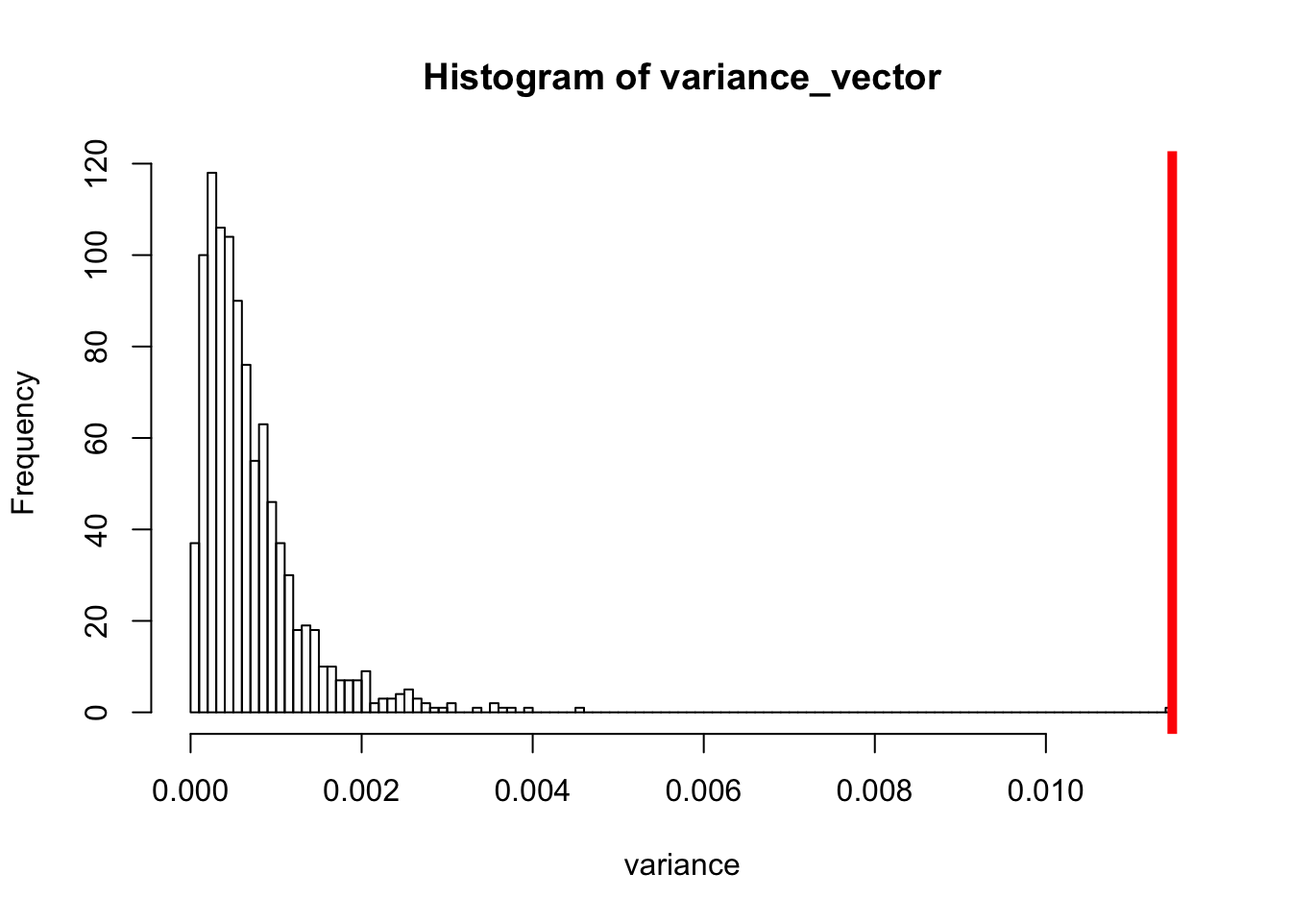
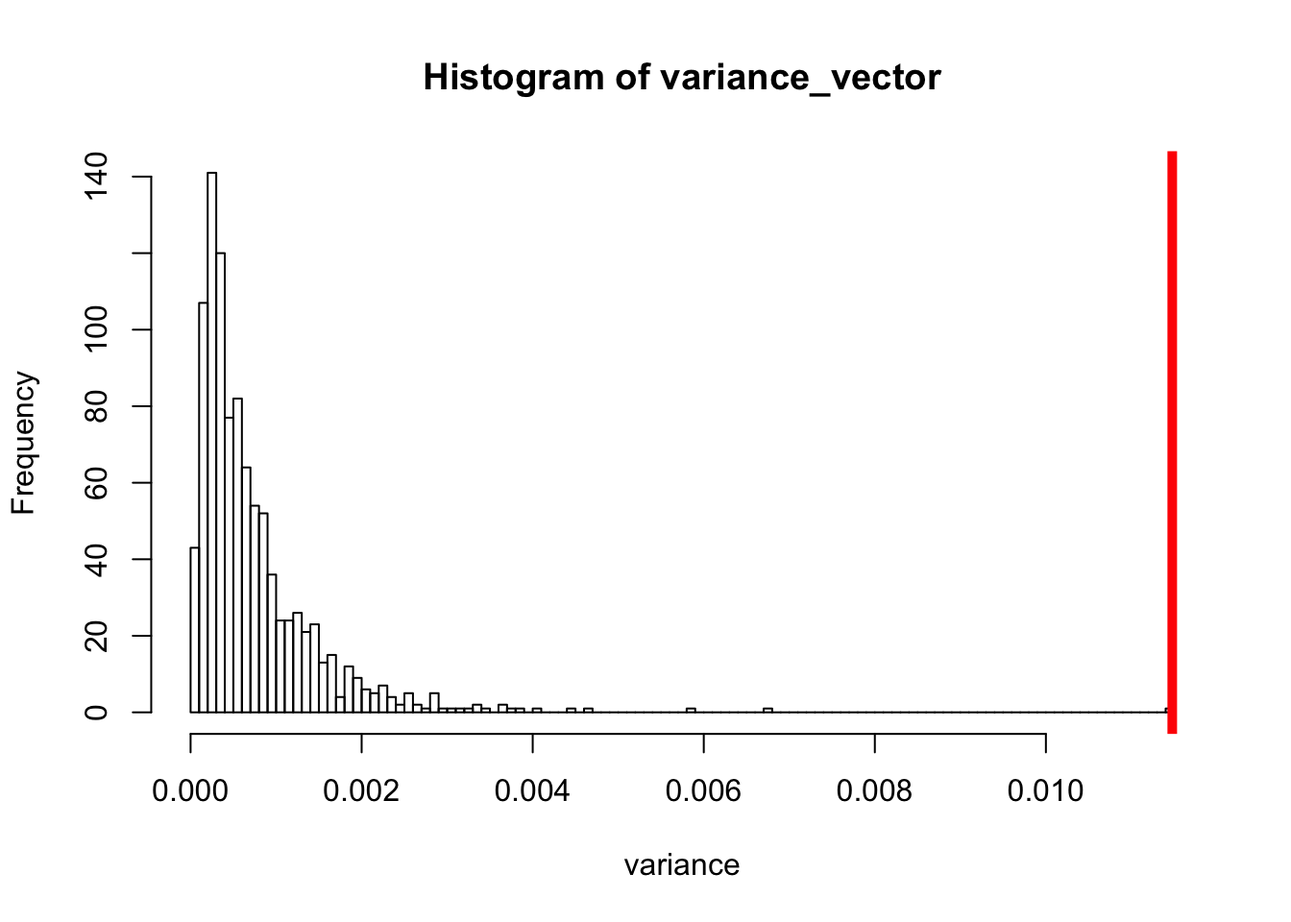
update docs

diff --git a/docs/articles/Intermediate.html b/docs/articles/Intermediate.html
@@ -108,6 +108,13 @@
     
 <p>In the <strong>Introduction</strong> vignette users learned how to perform the most fundamental computations and visualizations for phylotranscriptomics analyses using the <code>myTAI</code> package.</p>
 <p>This <strong>Intermediate</strong> vignette introduces more detailed analyses and more specialized techniques to investigate the observed phylotranscriptomics patterns (<code>TAI</code>, <code>TDI</code>, <code>RE</code>, etc.) and introduces the statistical framework to quantify the significance of observed phenomena.</p>
+<ul>
+<li><a href="#flat-line-test">1. Details: Flat Line Test</a></li>
+<li><a href="#reductive-hourglass-test">2. Details: Reductive Hourglass Test</a></li>
+<li><a href="#reductive-early-conservation-test">3. Details: Reductive Early Conservation Test</a></li>
+<li><a href="#reverse-hourglass-test">4. Details: Reverse Hourglass Test</a></li>
+<li><a href="#data-transformation">5. Data Transformation for log(TAI) and sqrt(TAI) patterns</a></li>
+</ul>
 <div id="investigating-the-statistical-significance-of-phylotranscriptomic-patterns" class="section level2">
 <h2 class="hasAnchor">
 <a href="#investigating-the-statistical-significance-of-phylotranscriptomic-patterns" class="anchor"></a>Investigating the Statistical Significance of Phylotranscriptomic Patterns</h2>
@@ -147,7 +154,7 @@
 <pre><code>#&gt; Plot signature: ' TAI ' and test statistic: ' FlatLineTest '.</code></pre>
 <p><img src="Intermediate_files/figure-html/unnamed-chunk-4-1.png" width="672"></p>
 <pre><code>#&gt;   Zygote Quadrant Globular    Heart  Torpedo     Bent   Mature 
-#&gt; 3.442376 3.450581 3.463984 3.466755 3.462376 3.474877 3.411153</code></pre>
+#&gt; 3.477610 3.477359 3.475310 3.485513 3.515593 3.504672 3.433017</code></pre>
 <pre><code>  Zygote Quadrant Globular    Heart  Torpedo     Bent   Mature 
 3.543700 3.573999 3.554707 3.543376 3.582905 3.562813 3.523409 </code></pre>
 <p>Visualization:</p>
@@ -158,17 +165,17 @@
 <p>Now we investigate the variance of the two observed patterns.</p>
 <pre><code>#&gt; [1] 0.01147725</code></pre>
 <pre><code>[1] 0.01147725</code></pre>
-<pre><code>#&gt; [1] 0.0004576913</code></pre>
+<pre><code>#&gt; [1] 0.0006893725</code></pre>
 <pre><code>[1] 0.0004102549</code></pre>
 <p>We observe that the variance of the randomly assigned TAI profile is much smaller than the variance of the correctly assigned TAI profile. Here we use the variance to quantify the <em>flatness</em> of a given TAI profile. In theory the variance of a perfect flat line would be zero. So any TAI profile that is close to zero would resemble a flat line. But how exactly are the variances of randomly assigned TAI profiles distributed? For this purpose the <code><a href="../reference/bootMatrix.html">bootMatrix()</a></code> function was implemented.</p>
 <p>The <code><a href="../reference/bootMatrix.html">bootMatrix()</a></code> takes an PhyloExpressionSet or DivergenceExpressionSet as input and computes N <code>TAI</code> or <code>TDI</code> profiles based on randomly assigned Phylostrata or Divergence-Strata.</p>
 <pre><code>#&gt;     Zygote Quadrant Globular    Heart  Torpedo     Bent   Mature
-#&gt; 1 3.556373 3.555940 3.564371 3.552135 3.540932 3.597329 3.559200
-#&gt; 2 3.578958 3.562647 3.543260 3.553642 3.552000 3.558867 3.629249
-#&gt; 3 3.575064 3.554565 3.554083 3.558154 3.552331 3.593836 3.511084
-#&gt; 4 3.487841 3.478605 3.502732 3.502590 3.495563 3.501634 3.566647
-#&gt; 5 3.511729 3.522055 3.513109 3.517169 3.507797 3.468659 3.451292
-#&gt; 6 3.519712 3.520031 3.499051 3.493000 3.491151 3.466636 3.570516</code></pre>
+#&gt; 1 3.562005 3.584663 3.561341 3.552105 3.544820 3.568694 3.488701
+#&gt; 2 3.468806 3.491609 3.526658 3.527258 3.509076 3.502288 3.509925
+#&gt; 3 3.403370 3.439106 3.433226 3.427242 3.435436 3.414637 3.434494
+#&gt; 4 3.477342 3.482300 3.483284 3.496459 3.475179 3.451550 3.527596
+#&gt; 5 3.574572 3.582978 3.569541 3.565765 3.530029 3.539912 3.471563
+#&gt; 6 3.558841 3.534821 3.514870 3.516069 3.503444 3.505163 3.589924</code></pre>
 <pre><code>    Zygote Quadrant Globular    Heart  Torpedo     Bent   Mature
 1 3.578000 3.577732 3.552230 3.556756 3.555627 3.553580 3.510978
 2 3.590339 3.564544 3.589012 3.598754 3.583721 3.597553 3.633530
@@ -206,12 +213,12 @@ fitdistrplus<span class="op">::</span><span class="kw"><a href="https://www.rdoc
 <p><img src="Intermediate_files/figure-html/unnamed-chunk-12-1.png" width="672"></p>
 <pre><code>#&gt; summary statistics
 #&gt; ------
-#&gt; min:  2.205066e-05   max:  0.004521709 
-#&gt; median:  0.0005324309 
-#&gt; mean:  0.000697152 
-#&gt; estimated sd:  0.0005888013 
-#&gt; estimated skewness:  2.116237 
-#&gt; estimated kurtosis:  9.442811</code></pre>
+#&gt; min:  2.481388e-05   max:  0.006715145 
+#&gt; median:  0.0005125888 
+#&gt; mean:  0.0007266039 
+#&gt; estimated sd:  0.0006991608 
+#&gt; estimated skewness:  2.679342 
+#&gt; estimated kurtosis:  14.88535</code></pre>
 <p>Based on the observation that a gamma distribution is a suitable fit for <code>variance_vector</code>, we can now estimate the parameters of the gamma distribution that fits the data.</p>
 <div class="sourceCode"><pre class="sourceCode r"><code class="sourceCode r"><span class="co"># estimate the parameters: shape and rate using 'moment matching estimation'</span>
 gamma_MME &lt;-<span class="st"> </span>fitdistrplus<span class="op">::</span><span class="kw"><a href="https://www.rdocumentation.org/packages/fitdistrplus/topics/fitdist">fitdist</a></span>(variance_vector,<span class="dt">distr =</span> <span class="st">"gamma"</span>, <span class="dt">method =</span> <span class="st">"mme"</span>)
@@ -241,7 +248,7 @@ histogram &lt;-<span class="st"> </span><span class="kw"><a href="https://www.rd
 <p>Using the gamma distribution with estimated parameters the corresponding p-value of <code>var_real</code> can be computed.</p>
 <div class="sourceCode"><pre class="sourceCode r"><code class="sourceCode r"><span class="co"># p-value of var_real</span>
 <span class="kw"><a href="https://www.rdocumentation.org/packages/stats/topics/GammaDist">pgamma</a></span>(var_real, <span class="dt">shape =</span> shape,<span class="dt">rate =</span> rate, <span class="dt">lower.tail =</span> <span class="ot">FALSE</span>)</code></pre></div>
-<pre><code>#&gt; [1] 3.766777e-10</code></pre>
+<pre><code>#&gt; [1] 5.052281e-08</code></pre>
 <p>Hence, the variance of the correct TAI profile significantly deviates from random TAI profiles and this allows us to assume that the underlying TAI profile captures a real evolutionary signal.</p>
 </div>
 <div id="using-the-flatlinetest-function" class="section level3">
@@ -394,6 +401,78 @@ histogram &lt;-<span class="st"> </span><span class="kw"><a href="https://www.rd
 <p>This example output nicely illustrates that although the <a href="http://amstat.tandfonline.com/doi/abs/10.1080/00031305.1986.10475419#.VDjzFCl_vek">Lilliefors (Kolmogorov-Smirnov) test</a> for normality is violated, the <a href="https://openlibrary.org/works/OL1978341W/Probabilistic_techniques_in_exposure_assessment">Cullen and Frey graph</a> shows that there is no better approximation than a normal distribution (which is also supported visually by investigating the fitted frequency distribution). The corresponding p-value returned by the <code><a href="../reference/EarlyConservationTest.html">EarlyConservationTest()</a></code> is highly non-significant and illustrates that the observed phylotranscriptomic pattern of <code>PhyloExpressionSetExample</code> does not follow the Early Conservation Model assumption.</p>
 <p>This example shall illustrate that finding the right test statistic is a multi-step process of investigating different properties of the underlying permutation test. Although single aspects might fit or fit not corresponding criteria, the overall impression (sum of all individual analyses) must be considered to obtain a valid p-value.</p>
 </div>
+<div id="reverse-hourglass-test" class="section level3">
+<h3 class="hasAnchor">
+<a href="#reverse-hourglass-test" class="anchor"></a>Reverse Hourglass Test</h3>
+<p>The <strong>Reverse Hourglass Test</strong> has been developed to statistically evaluate the existence of a <code>reverse hourglass pattern</code> based on TAI or TDI computations. The corresponding p-value quantifies the probability that a given TAI or TDI pattern (or any phylotranscriptomics pattern) does not follow an reverse hourglass like shape. A p-value &lt; 0.05 indicates that the corresponding phylotranscriptomics pattern does indeed follow a reverse hourglass (low-high-low) shape.</p>
+<p>To build the test statistic again we start with a standard PhyloExpressionSet.</p>
+<pre><code>#&gt;   Phylostratum      GeneID   Zygote Quadrant Globular     Heart  Torpedo      Bent    Mature
+#&gt; 1            1 at1g01040.2 2173.635 1911.200 1152.555 1291.4224 1000.253  962.9772 1696.4274
+#&gt; 2            1 at1g01050.1 1501.014 1817.309 1665.309 1564.7612 1496.321 1114.6435 1071.6555
+#&gt; 3            1 at1g01070.1 1212.793 1233.002  939.200  929.6195  864.218  877.2060  894.8189</code></pre>
+<pre><code>  Phylostratum      GeneID   Zygote Quadrant Globular     Heart  Torpedo      Bent    Mature
+1            1 at1g01040.2 2173.635 1911.200 1152.555 1291.4224 1000.253  962.9772 1696.4274
+2            1 at1g01050.1 1501.014 1817.309 1665.309 1564.7612 1496.321 1114.6435 1071.6555
+3            1 at1g01070.1 1212.793 1233.002  939.200  929.6195  864.218  877.2060  894.8189
+</code></pre>
+<p>And again compute the <code><a href="../reference/TAI.html">TAI()</a></code> profile of the <code>PhyloExpressionSetExample</code>.</p>
+<div class="sourceCode"><pre class="sourceCode r"><code class="sourceCode r"><span class="co"># TAI profile of correctly assigned Phylostrata</span>
+<span class="kw"><a href="../reference/TAI.html">TAI</a></span>(PhyloExpressionSetExample) </code></pre></div>
+<pre><code>  Zygote Quadrant Globular    Heart  Torpedo     Bent   Mature 
+3.229942 3.225614 3.107135 3.116693 3.073993 3.176511 3.390334 
+</code></pre>
+<p>Visualization:</p>
+<div class="sourceCode"><pre class="sourceCode r"><code class="sourceCode r"><span class="co"># visualize the TAI profile of correctly assigned Phylostrata</span>
+<span class="kw"><a href="../reference/PlotSignature.html">PlotSignature</a></span>( <span class="dt">ExpressionSet =</span> PhyloExpressionSetExample, 
+               <span class="dt">p.value       =</span> <span class="ot">FALSE</span> ) </code></pre></div>
+<p>The Reverse Hourglass Test is a permutation test based on the following test statistic.</p>
+<ol style="list-style-type: decimal">
+<li><p>A set of developmental stages is partitioned into three modules - <code>early</code>, <code>mid</code>, and <code>late</code> - based on prior biological knowledge (see Drost et al., 2015 for details).</p></li>
+<li><p>The mean TAI or TDI value for each of the three modules <span class="math inline">\(T_{early}\)</span>, <span class="math inline">\(T_{mid}\)</span>, and <span class="math inline">\(T_{late}\)</span> are computed.</p></li>
+<li><p>The two differences D1 = <span class="math inline">\(T_{mid}\)</span> - <span class="math inline">\(T_{early}\)</span> and D2 = <span class="math inline">\(T_{mid}\)</span> - <span class="math inline">\(T_{late}\)</span> are calculated.</p></li>
+<li><p>The minimum <span class="math inline">\(D_{min}\)</span> of D1 and D2 is computed as final test statistic of the <strong>Reverse Hourglass Test</strong>.</p></li>
+</ol>
+<p>In order to determine the statistical significance of an observed minimum difference <span class="math inline">\(D_{min}\)</span> the following permutation test was performed. Based on the <code><a href="../reference/bootMatrix.html">bootMatrix()</a></code> <span class="math inline">\(D_{min}\)</span> is calculated from each of the permuted TAI or TDI profiles, approximated by a Gaussian distribution with method of moments estimated parameters returned by <code><a href="https://www.rdocumentation.org/packages/fitdistrplus/topics/fitdist">fitdistrplus::fitdist()</a></code>, and the corresponding p-value is computed by <code>pnorm</code> given the estimated parameters of the Gaussian distribution. The goodness of fit for the random vector <span class="math inline">\(D_{min}\)</span> is statistically quantified by a <a href="http://amstat.tandfonline.com/doi/abs/10.1080/00031305.1986.10475419#.VDjzFCl_vek">Lilliefors (Kolmogorov-Smirnov) test</a> for normality.</p>
+<p>To perform the <strong>Reverse Hourglass Test</strong> you can use the <code><a href="../reference/ReverseHourglassTest.html">ReverseHourglassTest()</a></code> function. Using this function you need to divide the given phylotranscriptomic pattern into three developmental modules:</p>
+<ul>
+<li>early module</li>
+<li>mid module</li>
+<li>late module</li>
+</ul>
+<p>This can be done using the <code>modules</code> argument: <code>module = list(early = 1:2, mid = 3:5, late = 6:7)</code>. In this example (<code>PhyloExpressionSetExample</code>) we divide the corresponding developmental process into the three modules:</p>
+<ul>
+<li>early module: Stages 1 - 2 = Zygote and Quadrant</li>
+<li>mid module: Stages 3 - 5 = Globular, Heart, and Torpedo</li>
+<li>late module: Stages 6 - 7 = Bent and Mature</li>
+</ul>
+<div class="sourceCode"><pre class="sourceCode r"><code class="sourceCode r"><span class="co"># Perform the Reverse Hourglass Test</span>
+<span class="kw"><a href="../reference/ReverseHourglassTest.html">ReverseHourglassTest</a></span>( <span class="dt">ExpressionSet =</span> PhyloExpressionSetExample,
+                        <span class="dt">modules       =</span> <span class="kw"><a href="https://www.rdocumentation.org/packages/base/topics/list">list</a></span>(<span class="dt">early =</span> <span class="dv">1</span><span class="op">:</span><span class="dv">2</span>, <span class="dt">mid =</span> <span class="dv">3</span><span class="op">:</span><span class="dv">5</span>, <span class="dt">late =</span> <span class="dv">6</span><span class="op">:</span><span class="dv">7</span>),
+                        <span class="dt">lillie.test   =</span> <span class="ot">TRUE</span> ) </code></pre></div>
+<pre><code>$p.value
+[1] 1
+
+$std.dev
+[1] 0.05598325 0.05469016 0.05386737 0.05248817 0.05161525 0.05411684 0.05605765
+
+$lillie.test
+[1] TRUE</code></pre>
+<p>The corresponding output shows the p-value returned by the <strong>Reductive Hourglass Test</strong>, the standard deviation of randomly permuted TAI profiles returned by <code><a href="../reference/bootMatrix.html">bootMatrix()</a></code> (<code><a href="https://www.rdocumentation.org/packages/base/topics/apply">apply(bootMatrix(PhyloExpressionSetExample) , 2 , sd)</a></code>) and in case the argument <code>lillie.test = TRUE</code>, a logical value representing the goodness of fit statistic returned by the <a href="http://amstat.tandfonline.com/doi/abs/10.1080/00031305.1986.10475419#.VDjzFCl_vek">Lilliefors (Kolmogorov-Smirnov) test</a> for normality. In case <code>lillie.test</code> is <code>TRUE</code> the corresponding <a href="http://amstat.tandfonline.com/doi/abs/10.1080/00031305.1986.10475419#.VDjzFCl_vek">Lilliefors (Kolmogorov-Smirnov)</a> test passed the goodness of fit criterion. In case <code>lillie.test</code> is <code>FALSE</code> the corresponding goodness of fit by a normal distribution is not statistically significant.</p>
+<p>Analogous to the <code>plotHistogram</code> argument that is present in the <code><a href="../reference/FlatLineTest.html">FlatLineTest()</a></code> function, the <code><a href="../reference/ReductiveHourglassTest.html">ReductiveHourglassTest()</a></code> function also takes an argument <code>plotHistogram</code>. When <code>plotHistogram = TRUE</code>, the <code><a href="../reference/ReductiveHourglassTest.html">ReductiveHourglassTest()</a></code> function returns a multi-plot showing:</p>
+<ul>
+<li><p>A Cullen and Frey skewness-kurtosis plot. This plot illustrates which distributions seem plausible to fit the resulting permutation vector <span class="math inline">\(D_{min}\)</span>. Here a normal distribution seems most plausible.</p></li>
+<li><p>A histogram of <span class="math inline">\(D_{min}\)</span> combined with the density plot is visualized. <span class="math inline">\(D_{min}\)</span> is then fitted by a normal distribution. The corresponding parameters are estimated by moment matching estimation.</p></li>
+<li><p>A plot showing the p-values for N independent runs to verify that a specific p-value is biased by a specific permutation order.</p></li>
+<li><p>A bar plot showing the number of cases in which the underlying goodness of fit (returned by <a href="http://amstat.tandfonline.com/doi/abs/10.1080/00031305.1986.10475419#.VDjzFCl_vek">Lilliefors (Kolmogorov-Smirnov) test</a> for normality) has shown to be significant (<code>TRUE</code>) or not significant (<code>FALSE</code>). This allows to quantify the permutation bias and their implications on the goodness of fit.</p></li>
+</ul>
+<div class="sourceCode"><pre class="sourceCode r"><code class="sourceCode r"><span class="co"># perform the Reverse Hourglass Test and plot the test statistic</span>
+<span class="kw"><a href="../reference/ReverseHourglassTest.html">ReverseHourglassTest</a></span>( <span class="dt">ExpressionSet =</span> PhyloExpressionSetExample,
+                        <span class="dt">modules       =</span> <span class="kw"><a href="https://www.rdocumentation.org/packages/base/topics/list">list</a></span>(<span class="dt">early =</span> <span class="dv">1</span><span class="op">:</span><span class="dv">2</span>, <span class="dt">mid =</span> <span class="dv">3</span><span class="op">:</span><span class="dv">5</span>, <span class="dt">late =</span> <span class="dv">6</span><span class="op">:</span><span class="dv">7</span>),
+                        <span class="dt">plotHistogram =</span> <span class="ot">TRUE</span>, 
+                        <span class="dt">lillie.test   =</span> <span class="ot">TRUE</span> ) </code></pre></div>
+<p>The corresponding output shows the <code>summary statistics</code> of the fitted normal distribution as well as the p-value, standard deviation, and <a href="http://amstat.tandfonline.com/doi/abs/10.1080/00031305.1986.10475419#.VDjzFCl_vek">Lilliefors (Kolmogorov-Smirnov) test</a> result.</p>
+<p>This example output nicely illustrates that although the Lilliefors (Kolmogorov-Smirnov) test for normality is violated for some permutations, the Cullen and Frey graph shows that there is no better approximation than a normal distribution (which is also supported visually by investigating the fitted frequency distribution). The corresponding p-value returned by <code><a href="../reference/ReverseHourglassTest.html">ReverseHourglassTest()</a></code> is significant and illustrates that the observed phylotranscriptomic pattern of PhyloExpressionSetExample does follow the Hourglass Model assumption.</p>
+</div>
 </div>
 <div id="data-transformation" class="section level2">
 <h2 class="hasAnchor">
@@ -470,7 +549,7 @@ PES.absolute &lt;-<span class="st"> </span><span class="kw"><a href="../referenc
                <span class="dt">ylab          =</span> <span class="st">"TAI"</span> )</code></pre></div>
 <pre><code>#&gt; Plot signature: ' TAI ' and test statistic: ' FlatLineTest '.
 #&gt; Significance status of signature:  significant.</code></pre>
-<p><img src="Intermediate_files/figure-html/unnamed-chunk-30-1.png" width="672"></p>
+<p><img src="Intermediate_files/figure-html/unnamed-chunk-35-1.png" width="672"></p>
 </div>
 <div id="sqrt-transformation-tai" class="section level3">
 <h3 class="hasAnchor">
@@ -484,7 +563,7 @@ PES.absolute &lt;-<span class="st"> </span><span class="kw"><a href="../referenc
                <span class="dt">ylab          =</span> <span class="st">"TAI"</span> )</code></pre></div>
 <pre><code>#&gt; Plot signature: ' TAI ' and test statistic: ' FlatLineTest '.
 #&gt; Significance status of signature:  significant.</code></pre>
-<p><img src="Intermediate_files/figure-html/unnamed-chunk-31-1.png" width="672"></p>
+<p><img src="Intermediate_files/figure-html/unnamed-chunk-36-1.png" width="672"></p>
 <p>For the <code>PhyloExpressionSetExample</code> all transformations result in a significant phylotranscriptomics pattern deviating from a flat line.</p>
 <p>Nevertheless, it is not clear which transformation is the most appropriate one since the original TAI and TDI measure were defined for absolute expression levels.</p>
 <p>The same accounts for <code>TDI</code> profiles:</p>
@@ -501,7 +580,7 @@ PES.absolute &lt;-<span class="st"> </span><span class="kw"><a href="../referenc
                <span class="dt">ylab          =</span> <span class="st">"TDI"</span> )</code></pre></div>
 <pre><code>#&gt; Plot signature: ' TAI ' and test statistic: ' FlatLineTest '.
 #&gt; Significance status of signature:  significant.</code></pre>
-<p><img src="Intermediate_files/figure-html/unnamed-chunk-32-1.png" width="672"></p>
+<p><img src="Intermediate_files/figure-html/unnamed-chunk-37-1.png" width="672"></p>
 </div>
 <div id="sqrt-transformation-tdi" class="section level3">
 <h3 class="hasAnchor">
@@ -515,7 +594,7 @@ PES.absolute &lt;-<span class="st"> </span><span class="kw"><a href="../referenc
                <span class="dt">ylab          =</span> <span class="st">"TDI"</span> )</code></pre></div>
 <pre><code>#&gt; Plot signature: ' TAI ' and test statistic: ' FlatLineTest '.
 #&gt; Significance status of signature:  significant.</code></pre>
-<p><img src="Intermediate_files/figure-html/unnamed-chunk-33-1.png" width="672"></p>
+<p><img src="Intermediate_files/figure-html/unnamed-chunk-38-1.png" width="672"></p>
 <p>As a result, observed patterns should always be quantified using statistical tests (for ex. <code><a href="../reference/FlatLineTest.html">FlatLineTest()</a></code>, <code><a href="../reference/ReductiveHourglassTest.html">ReductiveHourglassTest()</a></code>, and <code><a href="../reference/EarlyConservationTest.html">EarlyConservationTest()</a></code>). In case the observed pattern is significant, qualitative differences of the observed patterns based on different data transformations must be investigated in more detail, since most data transformations are known to cause different effects on a measure that isn’t robust against data transformations.</p>
 </div>
 </div>

diff --git a/docs/articles/Introduction.html b/docs/articles/Introduction.html
@@ -519,6 +519,39 @@ PhyloExpressionSetExample &lt;-<span class="st"> </span><span class="kw"><a href
 3.229942 3.225614 3.107135 3.116693 3.073993 3.176511 3.390334 
 </code></pre>
 </div>
+<div id="reverse-hourglass-test" class="section level3">
+<h3 class="hasAnchor">
+<a href="#reverse-hourglass-test" class="anchor"></a>Reverse Hourglass Test</h3>
+<p>In case the observed phylotranscriptomic pattern not only significantly deviates from a flat line but also visually resembles an <em>reverse hourglass</em> shape (low-high-low pattern), one can obtain a p-value quantifying the statistical significance of a visual <em>reverse hourglass</em> pattern based on the <code>ReverseHourglassTest</code> (<code><a href="../reference/ReverseHourglassTest.html">?ReverseHourglassTest</a></code>).</p>
+<p>Since the <code>ReverseHourglassTest</code> has been defined for a priori biological knowledge (<a href="http://mbe.oxfordjournals.org/content/32/5/1221.short?rss=1">Drost et al., 2015</a>), the <code>modules</code> argument within the <code><a href="../reference/ReverseHourglassTest.html">ReverseHourglassTest()</a></code> function needs to be specified.</p>
+<p>Three modules need to be specified: an <strong>early-module</strong>, <strong>phylotypic module</strong> (mid), and a <strong>late-module</strong>.</p>
+<p>For this example we divide <em>A. thaliana</em> embryo development stored within the <em>PhyloExpressionSetExample</em> into the following three modules:</p>
+<ul>
+<li>early = stages 1 - 2 (Zygote and Quadrant)</li>
+<li>mid = stages 3 - 5 (Globular, Heart, and Torpedo)</li>
+<li>late = stages 6 - 7 (Bent and Mature)</li>
+</ul>
+<div class="sourceCode"><pre class="sourceCode r"><code class="sourceCode r"><span class="co"># Plot the Transcriptome Age Index of a given PhyloExpressionSet </span>
+<span class="co"># Test Statistic : Reverse Hourglass Test</span>
+<span class="kw"><a href="../reference/PlotSignature.html">PlotSignature</a></span>( <span class="dt">ExpressionSet =</span> PhyloExpressionSetExample,
+               <span class="dt">measure       =</span> <span class="st">"TAI"</span>,
+               <span class="dt">TestStatistic =</span> <span class="st">"ReverseHourglassTest"</span>,
+               <span class="dt">modules       =</span> <span class="kw"><a href="https://www.rdocumentation.org/packages/base/topics/list">list</a></span>(<span class="dt">early =</span> <span class="dv">1</span><span class="op">:</span><span class="dv">2</span>, <span class="dt">mid =</span> <span class="dv">3</span><span class="op">:</span><span class="dv">5</span>, <span class="dt">late =</span> <span class="dv">6</span><span class="op">:</span><span class="dv">7</span>),
+               <span class="dt">xlab          =</span> <span class="st">"Ontogeny"</span>, 
+               <span class="dt">ylab          =</span> <span class="st">"TAI"</span> )</code></pre></div>
+<p>The corresponding p-value <code>p_reverse_hourglass</code> now denotes the p-value returned by the <code>ReverseHourglassTest</code> which is different from the p-value returned by the <code>FlatLineTest</code> (<code>p_flt</code>).</p>
+<p>To make sure that correct modules have been selected to perform the <code>ReverseHourglassTest</code>, users can use the <code>shaded.area</code> argument to visualize chosen modules:</p>
+<div class="sourceCode"><pre class="sourceCode r"><code class="sourceCode r"><span class="co"># Visualize the phylotypic period used for the Reductive Hourglass Test</span>
+<span class="kw"><a href="../reference/PlotSignature.html">PlotSignature</a></span>( <span class="dt">ExpressionSet =</span> PhyloExpressionSetExample,
+               <span class="dt">measure       =</span> <span class="st">"TAI"</span>,
+               <span class="dt">TestStatistic =</span> <span class="st">"ReverseHourglassTest"</span>,
+               <span class="dt">modules       =</span> <span class="kw"><a href="https://www.rdocumentation.org/packages/base/topics/list">list</a></span>(<span class="dt">early =</span> <span class="dv">1</span><span class="op">:</span><span class="dv">2</span>, <span class="dt">mid =</span> <span class="dv">3</span><span class="op">:</span><span class="dv">5</span>, <span class="dt">late =</span> <span class="dv">6</span><span class="op">:</span><span class="dv">7</span>),
+               <span class="dt">shaded.area   =</span> <span class="ot">TRUE</span>, 
+               <span class="dt">xlab          =</span> <span class="st">"Ontogeny"</span>, 
+               <span class="dt">ylab          =</span> <span class="st">"TAI"</span> )</code></pre></div>
+<p><strong>Note</strong> that for defining a priori knowledge for the <code>ReverseHourglassTest</code> using the <code>modules</code> argument, modules need to start at stage 1, …, N and do not correspond to the column position in the <em>PhyloExpressionSet/DivergenceExpressionSet</em> which in contrast would start at position 3, … N + 2.</p>
+<p>In a biological context, it is not always clear which stages could define the ealy, mid, and late modules. For animal embryogenesis, it has been suggested to choose early, mid, and late modules according to the morphological conservation of animal embryos (e.g. mid-stage vertebrate embryos seem to be morphologically conserved). For plants, in contrast no morphological conservation has been reported and thus the averge expression of embryo defective genes has been used to define modules (Drost et al. 2015).</p>
+</div>
 </div>
 <div id="transcriptome-divergence-index-analyses" class="section level2">
 <h2 class="hasAnchor">
